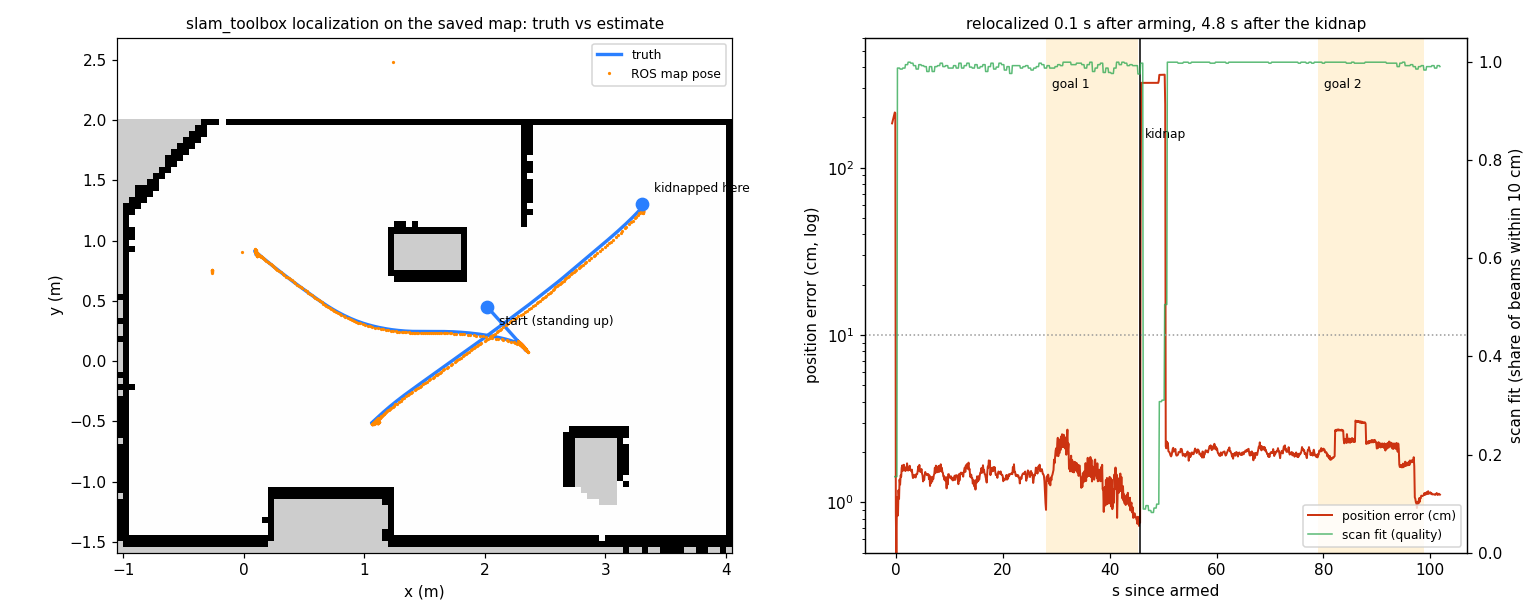
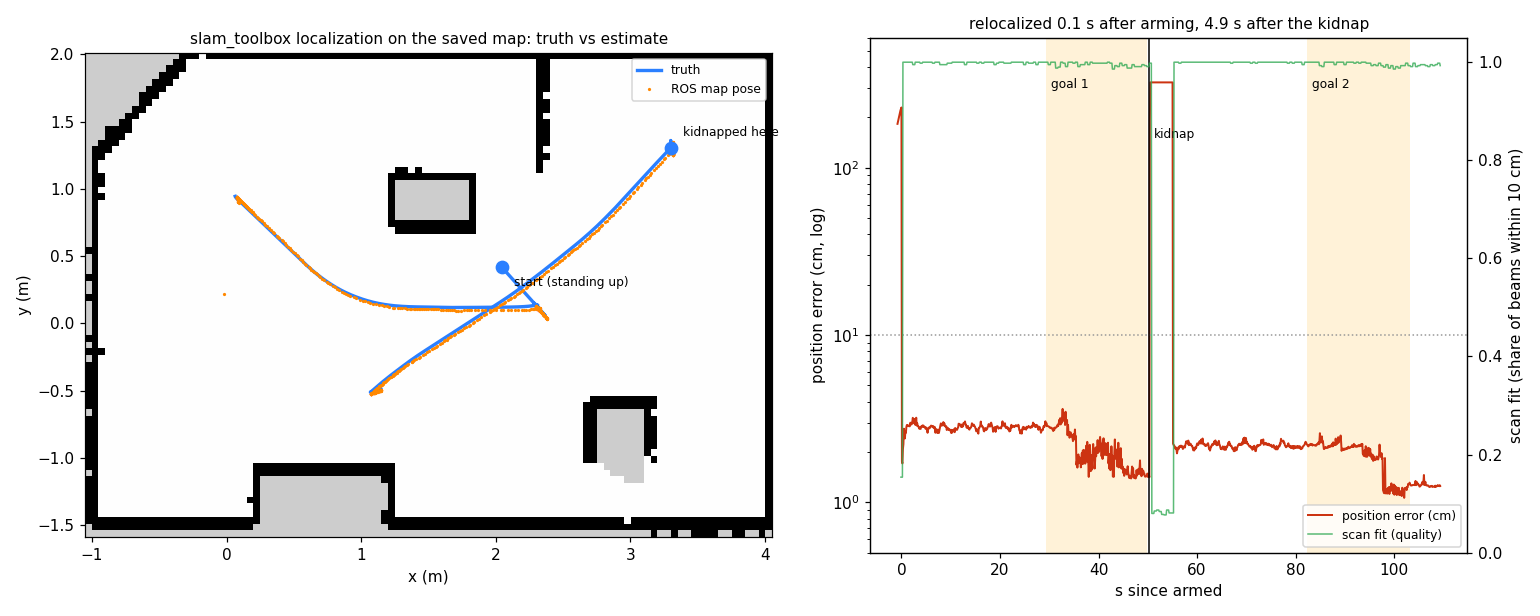
docs/ros2.md: #98 features + first real-robot session checklist
- "I want to" table, first real-robot session checklist (record, map, save, localize, then navigate).
- Sections with screenshots and sim numbers: record + replay, saved maps + localization (slam_toolbox vs
  AMCL table, loop closure with drift 6 deg/min), places + patrols (RViz capture), smoother driving
  (comparison table + choice), keep-out zones, gamepad mapping (usbipd note).
- Architecture, frames, safety, troubleshooting, package and test lists updated; README row.
- Images: rviz-localize-places-sim.png, loop-closure-drift6.png, localize-slam.png (rerun with the saved
  map on /map).

diff --git a/docs/ros2.md b/docs/ros2.md
@@ -1,12 +1,40 @@
 # ROS 2 on the PC (WSL2): slam_toolbox + Nav2
 
-Issue #96. ROS 2 Jazzy runs on the Windows PC in WSL2. The robot does not change: the bridge sends a small opt-in stream, and an adapter turns it into ROS topics.
+Issues #96 and #98. ROS 2 Jazzy runs on the Windows PC in WSL2. The robot does not change: the bridge sends a small opt-in stream, and an adapter turns it into ROS topics.
+
+| I want to | Run (PowerShell, repo root) | Section |
+|---|---|---|
+| Record a run | `ros2\record_run.ps1` | [Record and replay](#record-and-replay-rosbag2) |
+| Make a map, save it | `ros2\run_mapping.ps1`, `ros2\save_map.ps1 -Name room` | [Saved maps](#saved-maps-and-localization) |
+| Drive on a saved map | `ros2\run_localize.ps1 -Map room` | [Saved maps](#saved-maps-and-localization) |
+| Go to a place / patrol | `ros2\go_to.ps1 -Place kitchen`, `ros2\patrol.ps1 -Places "A,B"` | [Places](#places-and-patrols) |
+| Keep out of zones | automatic (zones drawn on the phone) | [Keep-out zones](#keep-out-zones) |
+| Drive with a gamepad | `ros2\teleop.ps1` | [Gamepad](#gamepad-optional) |
+| First time with the real robot | | [Checklist](#first-real-robot-session-checklist) |
 
 <p>
 <img src="img/ros2/rviz-nav2-driving-sim.png" width="49%">
 <img src="img/ros2/sim-nav2-goal1-reached.png" width="40%">
 </p>
 <p>Nav2 drives the sim robot through the bridge (RViz on WSLg), and the goal is reached on the slam_toolbox map. Blue lines are the sim's true walls.</p>
+
+## First real-robot session (checklist)
+
+Tonight's order: **record first, map, save, localize, then navigate.** Each step works before the next starts.
+
+| # | Do | Check |
+|---|---|---|
+| 0 | Robot on its stand, then on the floor. Phone: **Arm & Balance**, then **Manual** | the robot stands; STOP works |
+| 1 | Window 1: `powershell -File ros2\record_run.ps1 -Name first` | it prints the bag path. Leave it running all session |
+| 2 | Window 2: `powershell -File ros2\run_mapping.ps1` | RViz: red scan points on the walls, the map grows |
+| 3 | Drive slowly round the room with the phone joystick. Come back to the start (loop closure) | walls stay straight and single, no doubled walls |
+| 4 | Window 3: `powershell -File ros2\save_map.ps1 -Name room` | `~/maps/room.posegraph`, `.yaml`, `.pgm`, `.png` |
+| 5 | Ctrl+C window 2. Disarm, carry the robot somewhere else. `powershell -File ros2\run_localize.ps1 -Map room`, then Arm & Balance + Manual (scans count only while it stands) | log `global match ... fit 0.9+`, RViz: scan on the walls, `/localization_quality` > 0.7 |
+| 6 | RViz **2D Goal Pose** 1 m away (Nav2 drives at up to 0.18 m/s) | it drives there smoothly; STOP on the phone stops it |
+| 7 | Save places on the phone (Map > Places), then `powershell -File ros2\go_to.ps1 -Place kitchen` | it arrives within ~15 cm |
+| 8 | Ctrl+C window 1 | the bag replays offline: `powershell -File ros2\replay.ps1 -Bag <path>` |
+
+If step 5 says `global match not convincing`, give the start: `-InitialPose "x,y,yaw"` (map metres, radians), or drive a little.
 
 ## Architecture
 
@@ -18,14 +46,21 @@ flowchart LR
   end
   subgraph PC["Windows PC, WSL2 Ubuntu 24.04, ROS 2 Jazzy"]
     A["sbr3_ros adapter"]
-    S["slam_toolbox"]
+    S["slam_toolbox<br>(mapping or localization)"]
+    M["loc_monitor"]
+    K["keepout_mask"]
     N["Nav2"]
+    G["go_to / patrol"]
     R["RViz (WSLg)"]
   end
-  B -- "WebSocket /ws<br>ros_scan 10 Hz, ros_odom 50 Hz,<br>ros_state 2 Hz (~19 KB/s)" --> A
+  B -- "WebSocket /ws<br>ros_scan 10 Hz, ros_odom 50 Hz,<br>ros_state 2 Hz (~19 KB/s),<br>places, zones" --> A
   A -- "/scan /odom /tf /imu<br>/robot_state /battery" --> S
-  A --> N
+  A -- "/station/places<br>/station/zones" --> K
+  A --> G
   S -- "/map, map->odom" --> N
+  M -- "/initialpose" --> S
+  K -- "keepout mask" --> N
+  G -- "goals" --> N
   N -- "/cmd_vel" --> A
   A -- "cmd_vel (mm/s, deg/s)<br>STATION only, deadman 0.5 s" --> B
   S --> R
@@ -36,6 +71,7 @@ flowchart LR
 |---|---|
 | `map -> odom` | slam_toolbox, or AMCL, or the bridge's own LD19 matcher (`localization:=bridge`) |
 | `odom -> base_link` | adapter, from telemetry (50 Hz) |
+| `odom -> station_map` | adapter: the station's own map frame (places, zones), from the bridge's scan-match correction |
 | `base_link -> laser` | adapter, static, from lidar.json: x, y, height (208 mm on the robot), **yaw 0** (the bridge already applies the mount yaw) |
 
 <img src="img/ros2/tf-tree.png" width="40%">
@@ -53,6 +89,7 @@ This sets up the following:
 | WSL distro **Ubuntu-24.04** | `%LOCALAPPDATA%\wsl\Ubuntu-24.04`, user `sbr3` (passwordless sudo). WSL older than 2.4 cannot `--install` it by name, so the script imports Canonical's official image after checking its SHA256 |
 | ROS 2 **Jazzy** (apt) | `ros-jazzy-desktop`, `ros-jazzy-slam-toolbox`, `ros-jazzy-navigation2`, `ros-jazzy-nav2-bringup`, colcon, rosdep, `python3-websocket` |
 | `sbr3_ros` | built in `~/sbr3_ws` from a copy of `ros2/sbr3_ros` (colcon never writes into the Windows checkout) |
+| #98 needs nothing more | rosbag2 + mcap, joy, teleop_twist_joy come with `ros-jazzy-desktop`; MPPI, RPP, the rotation shim, the collision monitor and costmap filters with `ros-jazzy-navigation2`; numpy with ROS |
 
 Disk: **~9 GB** (the distro's `ext4.vhdx`). It is safe to run again.
 
@@ -119,6 +156,169 @@ WSL2's default NAT networking is fine here: WSL connects out to the robot. Nothi
 
 The adapter has not been run against the real robot yet: it was tested on the sim only.
 
+## Record and replay (rosbag2)
+
+<img src="img/ros2/bag-live-vs-offline.png" width="90%">
+
+The same 150 s sim run: the live map (left) and the map rebuilt offline from its bag (right). Both have 100 % of their wall cells within 10 cm of the true walls.
+
+| | Command |
+|---|---|
+| Record (2nd window) | `powershell -File ros2\record_run.ps1 [-Name kitchen] [-Seconds 120]` |
+| What | `/scan /odom /imu /tf /tf_static /robot_state /battery /cmd_vel /map` + Nav2, localization and station topics that are live |
+| Where | `~/sbr3-bags/<date>_<time>_<name>` in WSL (mcap); Windows: `\\wsl.localhost\Ubuntu-24.04\home\sbr3\sbr3-bags` |
+| Size | ~14 MB for 150 s (~95 KB/s) |
+| Replay: rebuild the map | `powershell -File ros2\replay.ps1 -Bag <path> [-SlamParams <yaml>] [-Rate 2]`, then `save_map.ps1 -Name room2` |
+| Replay: localize on a map | `powershell -File ros2\replay.ps1 -Bag <path> -Mode amcl -Map room` |
+
+```mermaid
+flowchart LR
+  B["bag (mcap)"] -- "--clock, /tf as /bag/tf" --> F["bag_tf_filter<br>drops map->odom"]
+  F -- "/tf" --> S["slam_toolbox or AMCL<br>use_sim_time"]
+  B -- "/scan /odom /tf_static" --> S
+  S -- "/map, map->odom" --> R["RViz / save_map"]
+```
+
+The adapter is off during a replay: the bag is the robot. Its own `map -> odom`, `/map` and localization topics move under `/bag/...`, so the offline slam_toolbox / AMCL makes new ones. Change `config/slam_toolbox.yaml` (or pass `-SlamParams`) and replay the same bag to tune.
+
+## Saved maps and localization
+
+<p>
+<img src="img/ros2/localize-slam.png" width="98%">
+</p>
+
+slam_toolbox localization on the saved sim map. The robot starts 2.6 m from the map origin, turned 135 deg: the global match (0.5 s) finds it as soon as it stands. A Nav2 goal, then the robot is **kidnapped** (teleported 3.2 m): lost after 3 s, found again 4.9 s after the jump, then a second goal. Error 2-3 cm throughout.
+
+| Step | Command |
+|---|---|
+| Map, then save | `run_mapping.ps1`, then `save_map.ps1 -Name room`: `~/maps/room.posegraph/.data` (slam_toolbox) + `.yaml/.pgm` (AMCL, map_server) + `.png` |
+| Localize + Nav2 | `powershell -File ros2\run_localize.ps1 -Map room` |
+| AMCL instead | `... -Localization amcl` |
+| Known start pose | `... -InitialPose "0,0,0"` (map m, m, rad) |
+| Sim, started elsewhere | `... -Map simroom -Sim -SimStart "2600,-200,135"` (world mm, deg) |
+
+**How the robot finds itself (`loc_monitor`).** At start it matches the scan against the whole saved map (every free 10 cm cell x 120 headings, then a fine search: ~0.5 s) and sends the result to `/initialpose`. Every 0.5 s it checks the **scan fit**: the share of scan points within 10 cm of a map wall (`/localization_quality`). Below 0.35 for 3 s = lost (carried, kidnapped): it matches again and moves the pose, but only when the new pose explains the scan clearly better (fit >= 0.6 and +0.2). It never drives the robot.
+
+**slam_toolbox or AMCL?** slam_toolbox localization is the default. Same map, same runs in the sim:
+
+| | slam_toolbox localization | AMCL |
+|---|---|---|
+| Found at start (global match) | 0.1 s after arming | 0.5 s |
+| Error standing / driving | 2.8 / 1.9-2.1 cm (max 3.6 cm) | 4.6 / 4.2-4.6 cm (max 6.4 cm) |
+| Kidnapped 3.2 m: found again | 4.9 s | 4.9 s |
+| Error after the kidnap | 2.2 cm | 5.7 cm |
+| Needs | `.posegraph` (save_map.ps1 saves it) | `.yaml/.pgm` only |
+
+slam_toolbox matches each scan against the saved scans of the graph: about 2x more precise here than AMCL's particles on a 5 cm grid. AMCL stays as the fallback (a map from elsewhere, only a `.pgm`). Both get the start and the kidnap recovery from `loc_monitor`. In both modes Nav2, `loc_monitor` and the keep-out mask use the **saved** grid (`map_server` on `/map`): slam_toolbox localization keeps adding recent scans to the map it publishes, so that one goes to `/slam_toolbox/map`.
+
+<img src="img/ros2/localize-amcl.png" width="98%">
+
+<img src="img/ros2/loop-closure-drift6.png" width="90%">
+
+**Loop closure** is on (`do_loop_closing: true` in `config/slam_toolbox.yaml`): a loop needs 10 matched scans in a row (~2 m of driving at 20 cm per scan), searched within 3 m, with the fine-match bar at 0.45 against false loops. In the sim room, with odometry drifting 6 deg/min + 2 % (twice #96's test), 200 s of touring: loop closing on 100 % of wall cells within 10 cm (median 1.5 cm), off 100 % (median 1.8 cm). In a room this small the LD19 sees every wall from everywhere, so scan matching alone already holds the map; loop closure matters once the robot leaves the room and comes back (a flat, a corridor). Tune it offline on a recorded bag: `replay.ps1 -Bag <path> -SlamParams <yaml>`.
+
+## Places and patrols
+
+<img src="img/ros2/rviz-localize-places-sim.png" width="98%">
+
+RViz with `run_localize.ps1 -Map simroom -Sim -SimStart "2600,-200,135"`: the robot found itself on the saved map, then `go_to.ps1 -Place kitchen` (blue track; reached 14 cm from the saved spot). Green dots: the station's places; pink: a no-go square and a virtual wall drawn in the station, as keep-out cost.
+
+<img src="img/ros2/places-patrol.png" width="70%">
+
+Sim test (`scripts/sim_e2e_places.sh`): the robot starts 1.1 m from the saved map's origin, turned 90 deg, so the station's frame and the ROS map differ. Kitchen, Couch and Window are saved in the station as the phone does. `go_to Kitchen`, then a patrol Couch -> Window -> Kitchen, 2 loops, dwell 3 s:
+
+| | Result |
+|---|---|
+| Kitchen resolved to | map (3.31, 1.27); true spot (3.30, 1.30) |
+| go_to Kitchen | succeeded, 56 s (round the box) |
+| Patrol | succeeded, 160 s, nothing missed |
+| Closest true distance at each visit | 8-14 cm (Nav2's goal tolerance is 15 cm) |
+| Stood at each place | 3.3-6.9 s (dwell 3 s + settling) |
+
+Places are the ones saved on the phone (Map > Places, per robot profile #97). The adapter republishes the bridge's list as `/station/places` and the station's map frame as a TF frame (`odom -> station_map`, from the bridge's own scan-match correction), so a place lands in the right spot on the ROS map whichever localization runs.
+
+| | Command (with `run_localize.ps1` or `run_nav.ps1` running, robot armed in Manual) |
+|---|---|
+| Go to a place | `powershell -File ros2\go_to.ps1 -Place kitchen` (any case; Home works) |
+| Patrol | `powershell -File ros2\patrol.ps1 -Places "Kitchen,Couch,Home" -Loops 3 -Dwell 5` |
+| Forever | `-Loops 0`, Ctrl+C stops (cancels the Nav2 goal) |
+
+The patrol sends each place to Nav2's waypoint follower in turn and waits `-Dwell` s there itself (Jazzy's waypoint follower reads its pause only at startup); each place faces the way it is approached (no spin on arrival); a place Nav2 cannot reach is logged and skipped; it waits for a good pose (`loc_monitor` "ok") before it starts. RViz shows the places (green dots + names) and zone outlines.
+
+Places follow the station's own map alignment (its scan-match correction). If the phone shows the robot in the wrong spot, the places are off by the same amount: fix the station's pose first (Scan & correct on the phone).
+
+## Smoother driving: controller, velocity smoother, collision monitor
+
+<img src="img/ros2/nav-compare.png" width="98%">
+
+Same saved map, same start, same three goals; a 30 cm box (red) that is **not on the map** sits on the first leg. Measured in the sim (`scripts/sim_e2e_goals.sh` + `nav_metrics.py`):
+
+| | goals | time | path | min clearance (centre to wall) | stops / reversals | peak accel / decel (cmd) | lean change (p95) |
+|---|---|---|---|---|---|---|---|
+| #96: RPP, smoother 0.3 / 0.4 m/s² | 3 / 3 | 59 s | 8.66 m | 32 cm | 0 / 0 | 0.38 / 0.28 m/s² | 0.8 deg |
+| **#98: rotation shim + RPP, smoother 0.25 / 0.3, collision-monitor slowdown** | 3 / 3 | 66 s | 8.85 m | **35 cm** | 0 / 0 | **0.31 / 0.24 m/s²** | 0.9 deg |
+| MPPI (2 tries, vx_min 0 and -0.06) | 0 / 1 | | | | | | |
+
+**Choice: rotation shim + Regulated Pure Pursuit.**
+- A balancing robot leans to change speed but turns on the spot for free: the shim turns first (path > 35 deg off), then RPP drives an arc it can lean into gently. RPP never reverses, slows for tight curves, near obstacles (cost-regulated) and into the goal.
+- MPPI overshot the first goal and then stalled 0.2-0.3 m short ("failed to make progress") in both tries; it is also the heavier controller (1500 sampled trajectories per step, a concern on the robot's Pi later). It stays an option for a later tuning pass (`scripts/nav2_variant.py` makes its params file).
+- 12 % slower, for 3 cm more clearance and ~20 % gentler commanded acceleration / braking. The sim's lean barely changes (0.8 vs 0.9 deg, its floor noise dominates); on the real robot the softer steps should show more. The box: the collision monitor halved the speed while passing it (the dip at 8 s); the plan went round it (the global costmap sees it on the scan).
+
+| Layer | #98 setting |
+|---|---|
+| Controller | rotation shim (turn first > 35 deg, 0.7 rad/s, 1.2 rad/s²) + RPP 0.18 m/s, look-ahead 0.3-0.7 m scaled with speed, approach slow-down from 0.6 m |
+| Velocity smoother | 0.25 m/s² up, 0.3 m/s² down (~1.5 deg of lean), 1.2 / 1.5 rad/s², v and w scaled together |
+| Collision monitor | half speed within 0.28 m of anything (robot r 0.12 m); "approach": never closer than 1.5 s to a hit |
+| Costmaps | inflation 0.45 m, softer (3.0): plans keep off walls where there is room |
+| Adapter (unchanged) | caps 0.25 m/s, 1 rad/s, slew 0.4 m/s² |
+
+## Keep-out zones
+
+<img src="img/ros2/keepout.png" width="98%">
+
+Sim test (`scripts/sim_e2e_keepout.sh`): walls drawn in the station (as on the phone) while ROS runs, the same goal (by the small box) three times:
+
+| Zones | Result |
+|---|---|
+| 1. A wall from the south wall to y = -0.2 m | **routes around its end**: succeeded, 28 s; the plan bends north round the lethal band + soft margin |
+| 2. Two more walls close the gap and the way north of the big box | **fails cleanly**: no plan, Nav2 aborts after 21 s of retries; the robot never moved towards the wall (0 track points on any wall) |
+| 3. Zones cleared on the station | the direct route again, succeeded, 31 s. Each change reached the mask in < 1 s |
+
+The station's **virtual walls, no-go zones, fence and mazes** (drawn on the phone, per robot) become a Nav2 **keepout filter** mask:
+
+```mermaid
+flowchart LR
+  P["phone: Map > Draw"] --> B["bridge zones<br>(station map, mm)"]
+  B -- "zones msg" --> A["adapter<br>/station/zones"]
+  A --> K["keepout_mask<br>TF map <- station_map<br>+ 15 cm (robot radius)"]
+  K -- "/keepout_filter_mask<br>/costmap_filter_info" --> N["Nav2 global + local costmap<br>KeepoutFilter"]
+```
+
+- Kept in sync: the mask is rebuilt when a zone changes (~1 s), when the map grows, or when relocalization moves the station frame by > 3 cm / 1 deg.
+- Each shape grows by 15 cm (robot radius 12 cm + margin) of lethal cost, then a 30 cm soft band: filters are applied after the inflation layer, and without the band plans grazed the lethal edge and the controller stopped for a "collision ahead".
+- Slow zones are not keep-out (the bridge still enforces them, and its zone watchdog stays on in STATION mode).
+- Off: `run_localize.ps1 -NoKeepout`.
+
+## Gamepad (optional)
+
+`teleop_twist_joy` -> `/cmd_vel` -> the adapter's safety gate (armed + STATION only, 0.5 s deadman, 0.25 m/s / 1 rad/s caps, slew).
+
+| Pad (Xbox-style) | Does |
+|---|---|
+| **LB** (hold) | deadman: nothing moves without it; let go = stop |
+| **RB** (hold, instead of LB) | turbo: faster caps |
+| Left stick up / down | forward / back, 0.12 m/s full stick (turbo 0.22) |
+| Left stick left / right | turn, 0.8 rad/s (turbo 1.0) |
+
+```powershell
+powershell -File ros2\teleop.ps1                 # next to run_mapping.ps1 / run_localize.ps1
+powershell -File ros2\teleop.ps1 -WithAdapter    # nothing else running
+```
+
+WSL2 does not see USB pads by itself: attach it once from an admin PowerShell with [usbipd-win](https://github.com/dorssel/usbipd-win) (`usbipd list`, `usbipd bind --busid <id>`, `usbipd attach --wsl --busid <id>`). Mapping: `config/teleop_joy.yaml`. Don't drive while Nav2 has a goal: both publish `/cmd_vel`.
+
+Tested in the sim with fake `/joy` messages (no pad here): stick pushed without LB: no `/cmd_vel`, the robot stays; with LB: 63 `/cmd_vel` at 0.12 m/s, the robot drove 0.37 m in 4 s; LB released: it stopped. `/cmd_vel` has one publisher (teleop) and one subscriber (the adapter).
+
 ## Safety
 
 | Rule | Where |
@@ -127,7 +327,9 @@ The adapter has not been run against the real robot yet: it was tested on the si
 | `/cmd_vel` drives only when the robot is armed, in **STATION**, with no E-stop and live telemetry; anything else is logged once and ignored | `convert.drivable` |
 | Deadman: no `/cmd_vel` for 0.5 s means one zero command, then silence. The bridge stops forwarding after 300 ms, and the firmware after its own timeout | `convert.CmdGate` |
 | Caps 0.25 m/s, 1.0 rad/s; slew 0.4 m/s², 2 rad/s² (adapter params `max_*`) | adapter |
-| Nav2: 0.18 m/s, velocity smoother 0.3 m/s² up and 0.4 m/s² down (a balancing robot leans to speed up) | `config/nav2.yaml` |
+| Nav2: 0.18 m/s, velocity smoother 0.25 m/s² up and 0.3 m/s² down (a balancing robot leans to speed up); collision monitor: half speed within 0.28 m of anything, no driving into a hit within 1.5 s | `config/nav2.yaml` |
+| Keep-out zones from the station in Nav2's costmaps (the bridge's zone watchdog stays on too) | `keepout_mask` |
+| `loc_monitor`, `go_to`, `patrol`, gamepad: none of them arms or changes the mode; they only reach the robot through `/cmd_vel` and the adapter | |
 | The Teensy keeps the last word: obstacle stop / slow-down in STATION, the link watchdog, E-stop, falls; the bridge's zones filter still applies | firmware, bridge |
 | Adapter closed: the bridge stops the robot at once (`cmd_vel 0`). Wi-Fi lost: no `cmd_vel` arrives, so forwarding stops after 300 ms | bridge |
 
@@ -166,6 +368,11 @@ The adapter has not been run against the real robot yet: it was tested on the si
 | Nav2 goal `outside bounds` | wait for the map to grow (`/map` every 2 s) before the first goal |
 | RViz window missing | WSLg comes with WSL 2: check that `echo $DISPLAY` prints `:0` in WSL. The RViz log line `indexed_8bit_image ... same texture image unit` is a harmless WSLg GL warning |
 | Costmap displays orange in mapping | normal: Nav2 is not running in `mapping.launch.py` |
+| `run_localize`: `global match not convincing` / robot drawn in the wrong spot | furniture moved a lot, or the room is very symmetric: give `-InitialPose "x,y,yaw"`, or RViz **2D Pose Estimate**, then drive a little |
+| `/localization_quality` stays < 0.6 | the map is old (furniture), or it is the wrong map: map again and `save_map.ps1` |
+| `go_to`: `no place called ...` | the list printed is what the bridge has for this robot's loaded map (places are per robot / map, #97) |
+| Goal refused next to a zone | the goal is inside a keep-out zone + 15 cm: pick a point further out |
+| `teleop.ps1`: nothing happens | the pad is not attached to WSL (`usbipd`), LB not held, or the robot is not armed in Manual |
 
 ## Package
 
@@ -173,15 +380,21 @@ The adapter has not been run against the real robot yet: it was tested on the si
 |---|---|
 | `ros2/sbr3_ros/sbr3_ros/adapter.py` | the node (`ros2 run sbr3_ros adapter --ros-args -p url:=...`) |
 | `ros2/sbr3_ros/sbr3_ros/convert.py` | conversions, clock sync, cmd_vel gate (no ROS, unit tested on Windows) |
-| `ros2/sbr3_ros/sbr3_ros/goal_test.py` | one Nav2 goal, logs the plan and track to JSON |
-| `ros2/sbr3_ros/launch/` | `mapping.launch.py`, `navigation.launch.py` (`localization:=slam\|amcl\|bridge`, `map:=`) |
-| `ros2/sbr3_ros/config/` | `slam_toolbox.yaml` (LD19, 5 cm, 20 cm / 0.2 rad per node), `nav2.yaml` (RPP, r 0.12 m footprint) |
-| `ros2/*.ps1`, `ros2/scripts/` | setup / run from PowerShell, build, e2e tests, `map_png.py` |
+| `ros2/sbr3_ros/sbr3_ros/goal_test.py` | one Nav2 goal (or `go_to`: a station place), logs the plan and track to JSON |
+| `.../loc_monitor.py`, `scanfit.py` | scan fit, global relocalization, kidnap recovery (numpy) |
+| `.../places.py`, `patrol.py` | station places in the map frame, waypoint-follower patrol |
+| `.../keepout_mask.py`, `keepout.py` | station zones -> keepout filter mask, RViz markers |
+| `.../bag_tf_filter.py`, `pose_logger.py` | replay helper; map pose / speed / pitch to CSV |
+| `ros2/sbr3_ros/launch/` | `mapping`, `navigation` (`localization:=slam\|amcl\|bridge`), `localize` (saved map), `replay`, `teleop` |
+| `ros2/sbr3_ros/config/` | `slam_toolbox.yaml` (LD19, 5 cm, loop closure), `nav2.yaml` (controller, smoother, collision monitor, keepout, AMCL), `teleop_joy.yaml` |
+| `ros2/*.ps1`, `ros2/scripts/` | setup / run from PowerShell, build, `sim_e2e_*.sh` tests + their `*_report.py` / `nav_metrics.py`, `map_png.py` |
 
-Tests: `python -m unittest discover -s ros2/sbr3_ros/test` (adapter, Windows or WSL), and `station/bridge/tests/test_ros_stream.py` (stream) inside the station suite.
+Tests: `python -m unittest discover -s ros2/sbr3_ros/test` (adapter, scan fit, places, keep-out; Windows or WSL), and `station/bridge/tests/test_ros_stream.py` + `station/sim/tests/test_extras.py` inside the station suite. Sim end-to-end (WSL): `sim_e2e_bag.sh`, `sim_e2e_localize.sh`, `sim_e2e_places.sh`, `sim_e2e_goals.sh`, `sim_e2e_keepout.sh`, `sim_e2e_teleop.sh`.
+
+Sim-only options used by these tests (`python -m station.sim --lidar ...`): `--start x,y,deg` (start pose; odometry reads 0 there), `--teleport-file PATH` (kidnap: write `x y deg`), `--truth-log PATH` (true pose CSV), `--box cx,cy,w,h` (an obstacle that is not on the saved map). `ros2/scripts/sim_station.py` saves places / zones in the local sim as the phone would (it refuses any other bridge).
 
 ## What's next
 
-- **Real robot:** first run with the robot on a stand, then on the floor, mapping only, then Nav2 at 0.1 m/s.
+- **Real robot:** the [checklist](#first-real-robot-session-checklist) above; Nav2 first at 0.1 m/s.
 - **On the robot's SBC** (#71: Pi 5 8 GB): run the same `sbr3_ros` there with `url:=ws://127.0.0.1:8080/ws`. slam_toolbox + Nav2 move with it, and the PC keeps RViz over DDS (same `ROS_DOMAIN_ID`; WSL needs mirrored networking for DDS discovery). Later the adapter could read the LD19 and the link directly and drop the WebSocket hop.
-- Loop closure / relocalisation on a saved map (`localization:=amcl`), and `localization:=bridge` to compare with the bridge's own matcher.
+- Slow zones as a Nav2 speed filter; `localization:=bridge` to compare with the bridge's own matcher.

diff --git a/README.md b/README.md
@@ -43,5 +43,5 @@ Also in the app: **Find balance point** and **Calibrate odometry** (Tune), **Fal
 | Falls, tuning, map details | [docs/station-features.md](docs/station-features.md) |
 | Wire and set up the LD19 lidar | [docs/ld19.md](docs/ld19.md) |
 | Script the bridge (API) | [docs/api.md](docs/api.md) |
-| Run ROS 2 (slam_toolbox, Nav2) on the PC | [docs/ros2.md](docs/ros2.md) |
+| Run ROS 2 (slam_toolbox, Nav2) on the PC: record runs, saved-map localization, places + patrols, keep-out zones | [docs/ros2.md](docs/ros2.md) |
 | Firmware internals | [docs/firmware.md](docs/firmware.md) |
